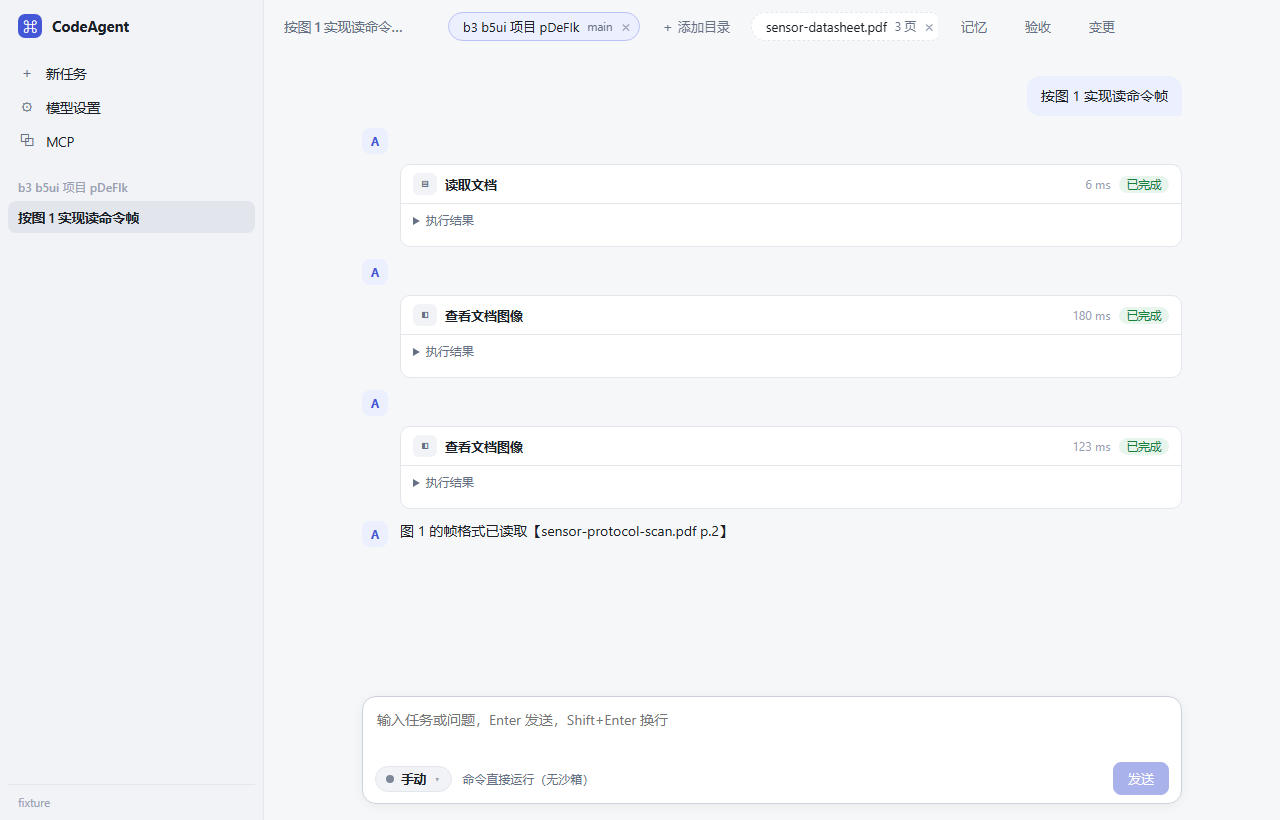
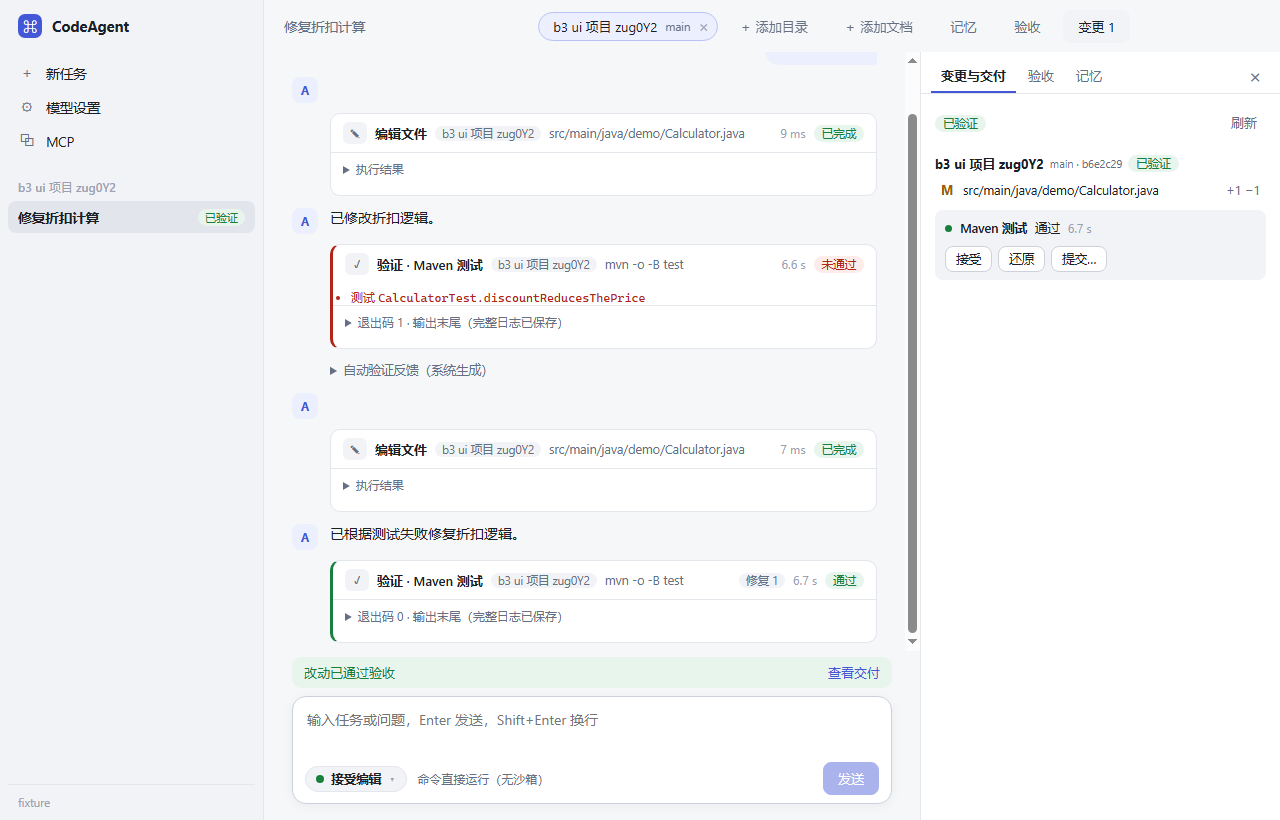
docs: show the repair and delivery workflow

diff --git a/README.md b/README.md
@@ -2,7 +2,7 @@
 
 CodeAgent 是面向 Windows 的中文 AI 编程工作台，用于在本地代码库中完成修改、验证和交付。选择项目目录并描述任务后，Agent 可以搜索代码、读取技术文档、编辑文件并运行测试。你可以在工作台审批工具调用、查看失败原因和 Git 差异，再决定保留、恢复或提交改动。
 
-![CodeAgent 主界面，展示项目任务和文档工具的执行记录](docs/workbench.png)
+![CodeAgent 主界面，展示代码修改、自动修复、测试验收和 Git 交付](docs/workbench.png)
 
 ## 能力
 
